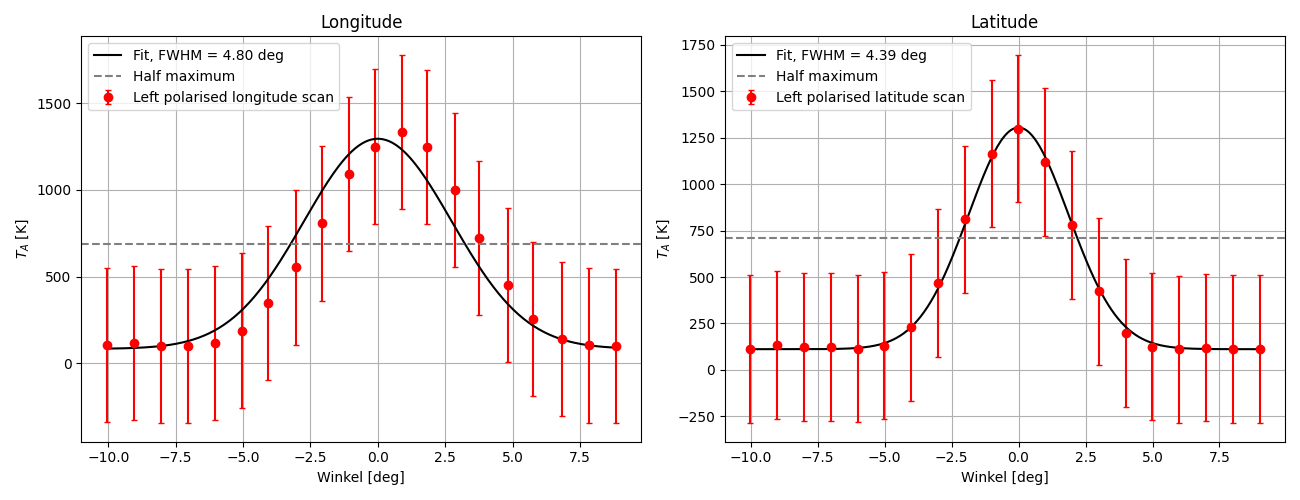
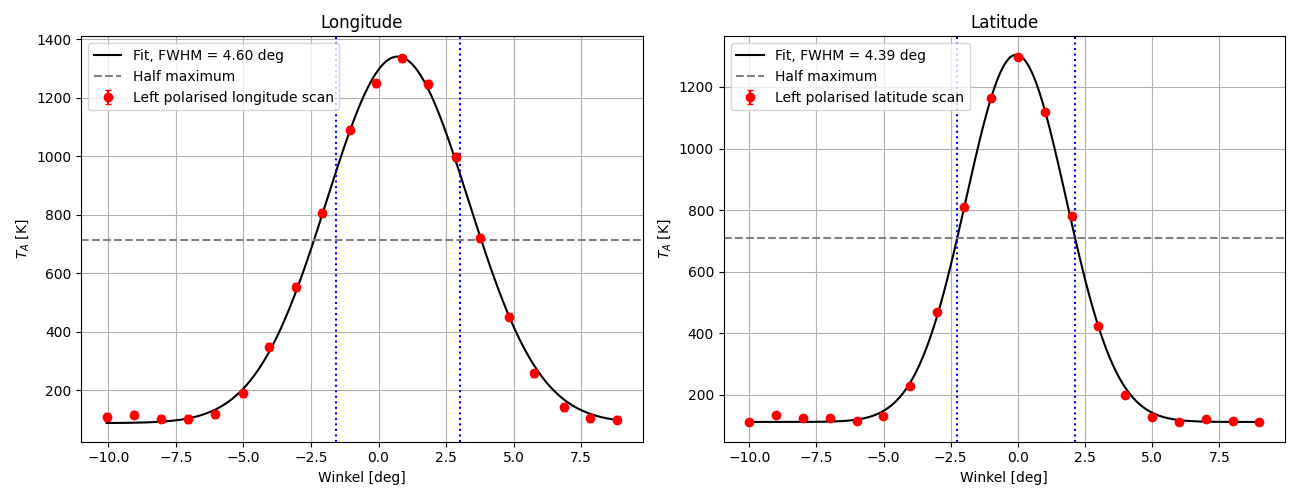
update mit fehlern

diff --git a/P4/Auswertung HS1/angular resolution/gaussian_fit_v2.py b/P4/Auswertung HS1/angular resolution/gaussian_fit_v2.py
@@ -36,38 +36,62 @@ y_lon_r = y_lon_r * T_A_sun / (P_off_r_mean * 10)
 y_lat_l = y_lat_l * T_A_sun / (P_off_l_mean * 10)
 y_lat_r = y_lat_r * T_A_sun / (P_off_r_mean * 10)
 
+# Fehler
+path = "/Users/leonielanz/Library/CloudStorage/OneDrive-Persönlich/Anwendungen/remotely-save/Studium/F-Prak/F-Prak/P4/Auswertung HS1/angular resolution/sigma_l_r_background.txt"
+sigma= np.loadtxt(path, skiprows=1)
 
-def gaussian(angle, amplitude, sigma, offset):
-    return offset + amplitude * np.exp(-angle**2 / (2 * sigma**2))
+sigma_lat_l = sigma[0]
+sigma_lat_r = sigma[1]
+sigma_lon_l = sigma[2]
+sigma_lon_r = sigma[3]
 
-def fit_scan(angle, signal):
+# Gauss-Modell
+def gaussian(angle, amplitude, sigma, offset, x0):
+    return offset + amplitude * np.exp(-(angle - x0)**2 / (2 * sigma**2))
+
+# fit
+def fit_scan(angle, signal, fit_angle_offset=False):
     signal_error = np.std(signal)
+
+    if fit_angle_offset:
+        initial_guess = [
+            max(signal) - min(signal),  # amplitude
+            1.0,                        # sigma
+            min(signal),                # offset
+            angle[np.argmax(signal)]    # x0
+        ]
+    else:
+        initial_guess = [
+            max(signal) - min(signal),
+            1.0,
+            min(signal),
+            0.0
+        ]
 
     parameters, covariance = curve_fit(
         gaussian,
         angle,
         signal,
-        p0=[
-            max(signal) - min(signal),
-            1.0,
-            min(signal)
-        ],
+        p0=initial_guess,
         sigma=signal_error,
         absolute_sigma=True
     )
 
-    amplitude, sigma, offset = parameters
+    amplitude, sigma, offset, x0 = parameters
+
     sigma_error = np.sqrt(covariance[1, 1])
+    x0_error = np.sqrt(covariance[3, 3])
 
     fwhm = 2 * np.sqrt(2 * np.log(2)) * sigma
     fwhm_error = 2 * np.sqrt(2 * np.log(2)) * sigma_error
 
-    return parameters, fwhm, fwhm_error
+    return parameters, fwhm, fwhm_error, x0_error
 
-fit_lon_l, fwhm_lon_l, fwhm_lon_l_error = fit_scan(x_lon, y_lon_l)
-fit_lon_r, fwhm_lon_r, fwhm_lon_r_error = fit_scan(x_lon, y_lon_r)
-fit_lat_l, fwhm_lat_l, fwhm_lat_l_error = fit_scan(x_lat, y_lat_l)
-fit_lat_r, fwhm_lat_r, fwhm_lat_r_error = fit_scan(x_lat, y_lat_r)
+# ergebnisse
+fit_lon_l, fwhm_lon_l, fwhm_lon_l_error, x0_lon_l_error = fit_scan(x_lon, y_lon_l, fit_angle_offset=True)
+fit_lon_r, fwhm_lon_r, fwhm_lon_r_error, x0_lon_r_error = fit_scan(x_lon, y_lon_r, fit_angle_offset=True)
+fit_lat_l, fwhm_lat_l, fwhm_lat_l_error, fwhm_lat_l_error = fit_scan(x_lat, y_lat_l, fit_angle_offset=True)
+fit_lat_r, fwhm_lat_r, fwhm_lat_r_error, fwhm_lat_r_error = fit_scan(x_lat, y_lat_r, fit_angle_offset=True)
 
 # Korrektur des Longitude-Winkels
 ELV = 42.0
@@ -80,8 +104,9 @@ fwhm_lon_r_corrected_error = fwhm_lon_r_error * correction
 # Plot
 fig, axes = plt.subplots(1, 2, figsize=(13, 5))
 
-def plot_scan(axis, angle, signal, parameters, fwhm, label):
-    amplitude, sigma, offset = parameters
+def plot_scan(axis, angle, signal, yerr, parameters, fwhm, label):
+    amplitude, sigma, offset, x0 = parameters
+
     angle_model = np.linspace(angle.min(), angle.max(), 300)
     signal_model = gaussian(angle_model, *parameters)
 
@@ -90,7 +115,7 @@ def plot_scan(axis, angle, signal, parameters, fwhm, label):
     axis.errorbar(
         angle,
         signal,
-        yerr=np.std(signal),
+        yerr=yerr,
         fmt="o",
         color="red",
         capsize=2,
@@ -111,16 +136,29 @@ def plot_scan(axis, angle, signal, parameters, fwhm, label):
         label="Half maximum"
     )
 
+    axis.axvline(
+        x0 - fwhm / 2,
+        color="blue",
+        linestyle=":"
+    )
+
+    axis.axvline(
+        x0 + fwhm / 2,
+        color="blue",
+        linestyle=":"
+    )
+
     axis.set_xlabel("Winkel [deg]")
     axis.set_ylabel(r"$T_A$ [K]")
     axis.grid(True)
-    axis.legend()
+    axis.legend(loc="best")
 
 
-'''plot_scan(
+plot_scan(
     axes[0],
     x_lon,
     y_lon_l,
+    sigma_lon_l,
     fit_lon_l,
     fwhm_lon_l_corrected,
     label="Left polarised longitude scan"
@@ -130,15 +168,18 @@ plot_scan(
     axes[1],
     x_lat,
     y_lat_l,
+    sigma_lat_l,
     fit_lat_l,
     fwhm_lat_l,
     label="Left polarised latitude scan"
-)'''
+)
+'''
 
 plot_scan(
     axes[0],
     x_lon,
     y_lon_r,
+    sigma_lon_r,
     fit_lon_r,
     fwhm_lon_r_corrected,
     label="Right polarised longitude scan"
@@ -148,14 +189,15 @@ plot_scan(
     axes[1],
     x_lat,
     y_lat_r,
+    sigma_lat_r,
     fit_lat_r,
     fwhm_lat_r,
     label="Right polarised latitude scan"
-)
+)'''
 
 axes[0].set_title("Longitude")
 axes[1].set_title("Latitude")
-
+# plt.legend()
 plt.tight_layout()
 plt.show()
 

diff --git a/P4/Auswertung HS1/calib/background.py b/P4/Auswertung HS1/calib/background.py
@@ -39,14 +39,21 @@ data_lat_r_n = data_lat_r*T_sys_r / P_off_r_mean
 data_lon_l_n = data_lon_l*T_sys_l / P_off_l_mean
 data_lon_r_n = data_lon_r*T_sys_r / P_off_r_mean
 
-# big ?
-'''T_sys_lat_l_eff = T_sys_l - data_lat_l_n
-T_sys_lat_r_eff = T_sys_r - data_lat_r_n
-T_sys_lon_l_eff = T_sys_l - data_lon_l_n
-T_sys_lon_r_eff = T_sys_r - data_lon_r_n'''
+# Fehlerbalken
+sigma_lat_l = np.std(data_lat_l_n[2:13])
+sigma_lat_r = np.std(data_lat_r_n[2:13])
+sigma_lon_l = np.std(data_lon_l_n[2:13])
+sigma_lon_r = np.std(data_lon_r_n[2:13])
 
-# 
-# Fehler!!!
+sigma_data = np.column_stack((sigma_lat_l, sigma_lat_r, sigma_lon_l, sigma_lon_r))
+filepath="Auswertung HS1/angular resolution/sigma_l_r_background"
+np.savetxt(
+    filepath,
+    sigma_data,
+    header="lat_l lat_r lon_l lon_r",
+    comments="",
+    fmt=["%.3f", "%.3f", "%.3f", "%.3f"]
+)
 
 #PLOT
 import matplotlib.pyplot as plt
@@ -54,8 +61,8 @@ import matplotlib.pyplot as plt
 fig, axes = plt.subplots(1, 2, figsize=(12, 5))
 
 # T'_sys als Funktion der Elevation
-axes[0].plot(data_lat_el, data_lat_l_n, "o-", label="left circular polarisation")
-axes[0].plot(data_lat_el, data_lat_r_n, "o-", label="right circular polarisation")
+axes[0].errorbar(data_lat_el, data_lat_l_n, yerr=sigma_lat_l, fmt="o-", capsize=3, label="left circular polarisation")
+axes[0].errorbar(data_lat_el, data_lat_r_n, yerr=sigma_lat_r, fmt="o-", capsize=3, label="right circular polarisation")
 
 axes[0].set_xlabel("Elevation [deg]")
 axes[0].set_ylabel(r"$T_{h_n} = TPI \cdot T'_{\mathrm{sys}} / \overline{P_{off}}$ [K]")
@@ -65,8 +72,8 @@ axes[0].grid(True)
 axes[0].legend()
 
 # T'_sys als Funktion des Azimuts
-axes[1].plot(data_lon_az, data_lon_l_n, "o-", label="left circular polarisation")
-axes[1].plot(data_lon_az, data_lon_r_n, "o-", label="right circular polarisation")
+axes[1].errorbar(data_lon_az, data_lon_l_n, yerr=sigma_lon_l, fmt="o-", capsize=3, label="left circular polarisation")
+axes[1].errorbar(data_lon_az, data_lon_r_n, yerr=sigma_lon_r, fmt="o-", capsize=3, label="right circular polarisation")
 
 axes[1].set_xlabel("Azimuth [deg]")
 axes[1].set_ylabel(r"$T_{h_n} = TPI \cdot T'_{\mathrm{sys}} / \overline{P_{off}}$ [K]")
@@ -104,8 +111,8 @@ print(f"Increase right = {increase_r:.2f}")
 
 plt.figure(figsize=(7, 5))
 
-plt.plot(data_lat_el, data_lat_l_n, "o", label="left")
-plt.plot(data_lat_el, data_lat_r_n, "o", label="right")
+plt.errorbar(data_lat_el, data_lat_l_n, yerr=sigma_lat_l, fmt="o-", capsize=3, label="left")
+plt.errorbar(data_lat_el, data_lat_r_n, yerr=sigma_lat_r, fmt="o-", capsize=3, label="right")
 
 elevation_fit = np.linspace(0, max(data_lat_el), 200)
 plt.plot(elevation_fit,np.polyval(fit_l, elevation_fit),"--",label="linear fit, left")

diff --git a/P4/lab book.md b/P4/lab book.md
@@ -39,9 +39,9 @@ $\Rightarrow T_A = 972,753 K$
 USB 1-5, 9-13
 position of the sun calculated by the control software
 
-| Source | RA       | DEC       | AZ         | EL        | HA        | Type | Note |
-| ------ | -------- | --------- | ---------- | --------- | --------- | ---- | ---- |
-| Sun    | 110410.1 | +055810.9 | +1684733.7 | +420048.8 | -003253.9 | Star | East |
+| Source | RA       | DEC       | AZ         | EL          | HA        | Type | Note |
+| ------ | -------- | --------- | ---------- | ----------- | --------- | ---- | ---- |
+| Sun    | 110410.1 | +055810.9 | +1684733.7 | +42 00 48.8 | -003253.9 | Star | East |
 in ordner cscan ist der screenshot
 in ordner FITS sind die daten (lon vs lat)
 
